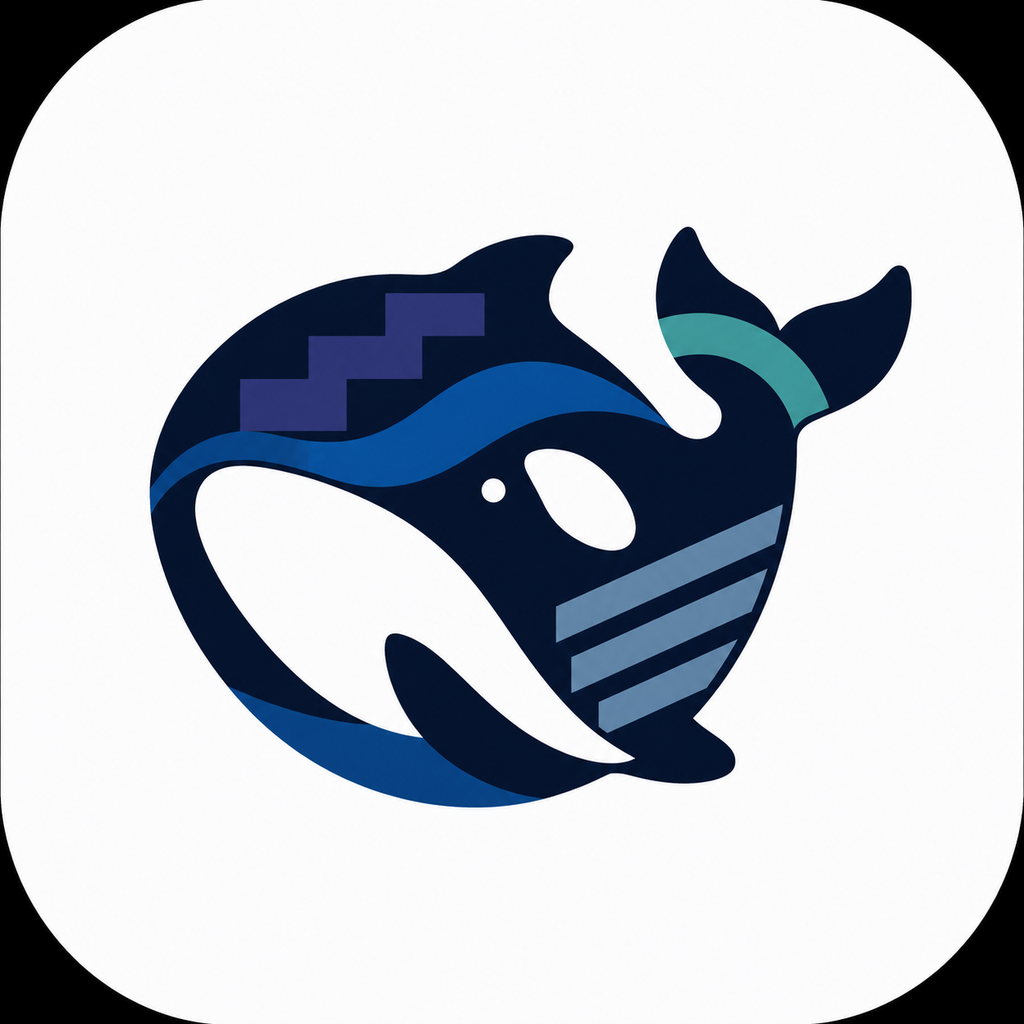
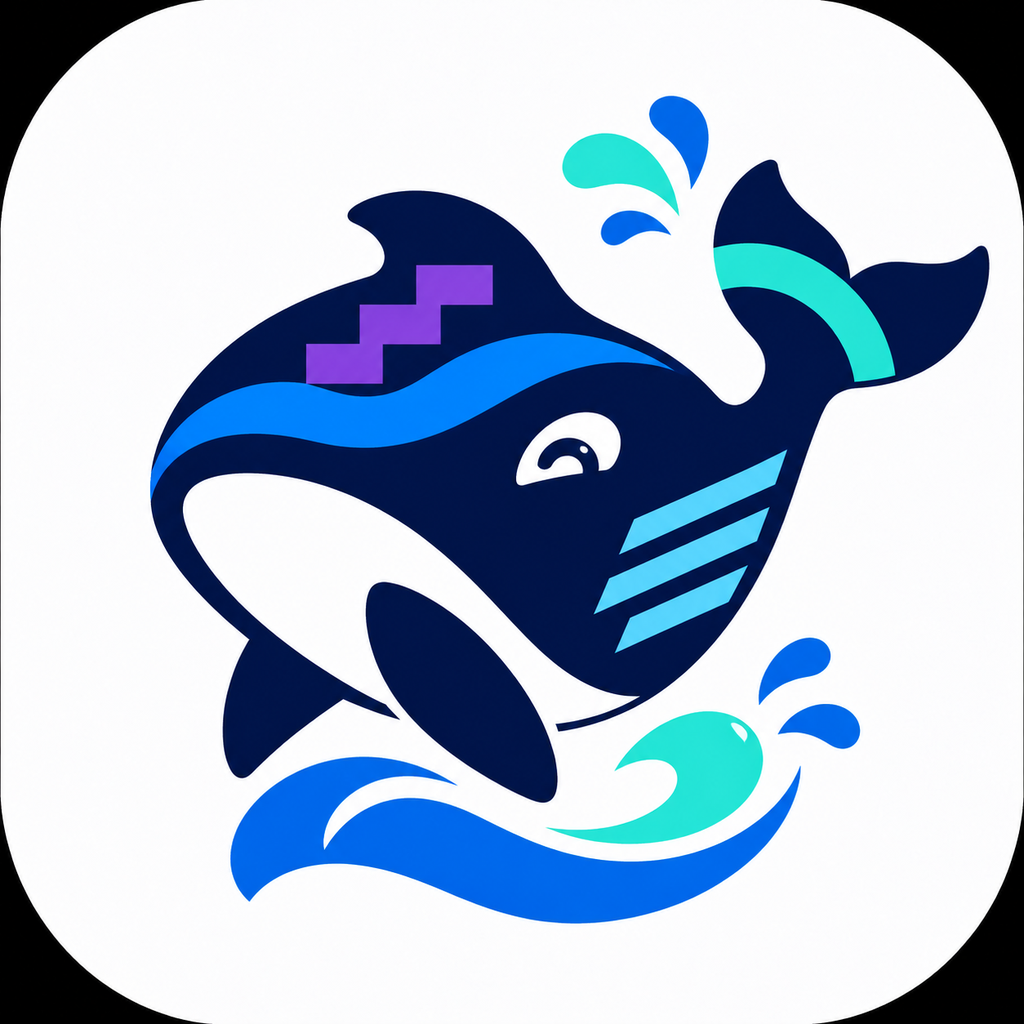
feat: 新图标、0.1.0-alpha.1、最低 API 18，修复无 WASM 环境的 fetch 与登录跳转
- 应用图标换成新的鲸鱼标识；versionName 0.1.0-alpha.1，versionCode 1
- compatibleSdkVersion 从 6.1.1(24) 降到 5.1.0(18)（target 仍为 24），示例模板同步
- Node 在 --jitless 下没有 WebAssembly，内置 fetch(undici) 不可用：新增纯 JS fetch 补丁（https + Web Streams，支持流式、重定向、压缩、AbortSignal），经 NODE_OPTIONS 预加载
- 带 HTTPS 中间人的开发环境可用 harmony-native.json 的 allowInsecureTls 开关放宽宿主 TLS 校验（默认关闭）
- 登录跳转：ArkWeb 不处理 window.open 会阻塞渲染进程；改为接管 window.open 并把授权链接交给系统浏览器
- README 补充运行时补丁与 TLS 边界说明

diff --git a/README.md b/README.md
@@ -128,6 +128,12 @@ filesDir/
 - `fork` 未被拦截，是否允许由设备决定，`probeCaps().fork` 会先探测；终端 PTY 依赖 `forkpty`；
 - 未包含：Python、MCP、语音、插件市场、后台常驻执行。
 
+## 运行时补丁
+
+鸿蒙上 Node 只能以 `--jitless` 运行，V8 关闭了 WebAssembly；而 Node 24 内置的 `fetch`（undici）依赖 WASM 解析 HTTP，直接使用会报 `WebAssembly is not defined`。因此运行时会在 `harmony/fetch-polyfill.cjs` 写入一份纯 JS 的 `fetch`（`https` + Web Streams，支持 JSON、SSE 流式响应、重定向、gzip/br/deflate 与 `AbortSignal`），并通过 `NODE_OPTIONS=--require` 预加载到宿主与终端里的 node。有 WASM 的环境不会被替换。
+
+带 HTTPS 中间人的模拟器/抓包代理会让宿主请求报 `SELF_SIGNED_CERT_IN_CHAIN`（系统浏览器信系统证书库，Node 只信随包的 Mozilla 根证书）。这是开发环境问题，默认**不**放宽校验；需要时在 `harness-home/harmony-native.json` 里显式写 `"allowInsecureTls": true`，宿主才会带上 `NODE_TLS_REJECT_UNAUTHORIZED=0`。正式设备不要打开。
+
 ## 许可证与合规
 
 本工程原创代码为 MIT（见 [LICENSE](LICENSE)），上游 DeepSeek Harness 也是 MIT。随包分发的所有第三方组件、许可证原文和 GNU Bash 的对应源码获取方式，统一维护在 [THIRD_PARTY_NOTICES.md](THIRD_PARTY_NOTICES.md)：
